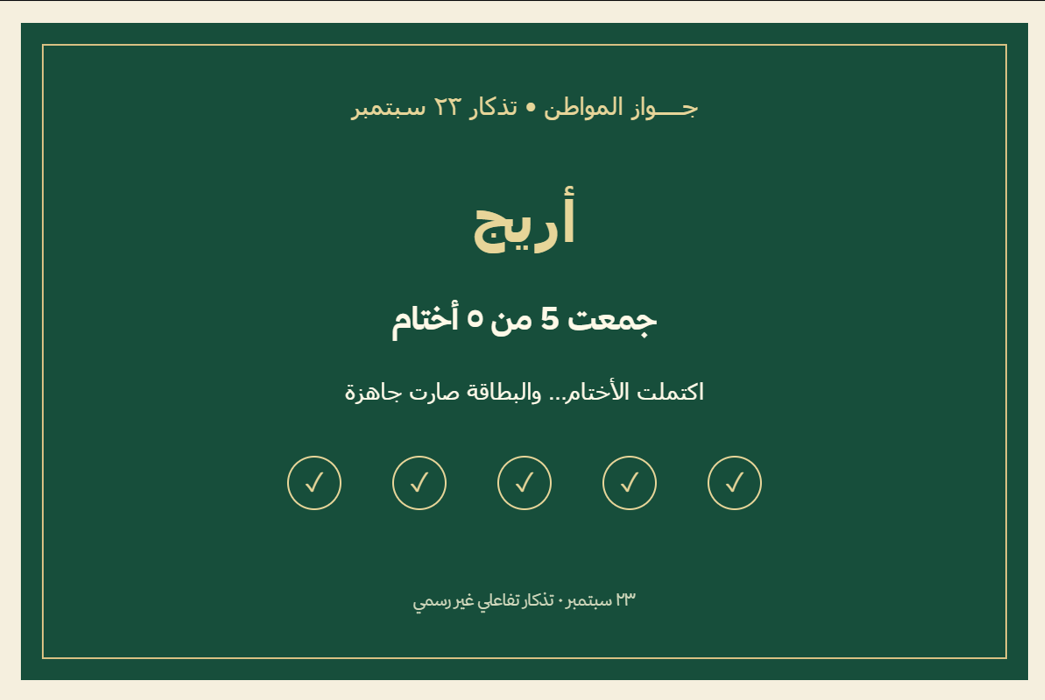
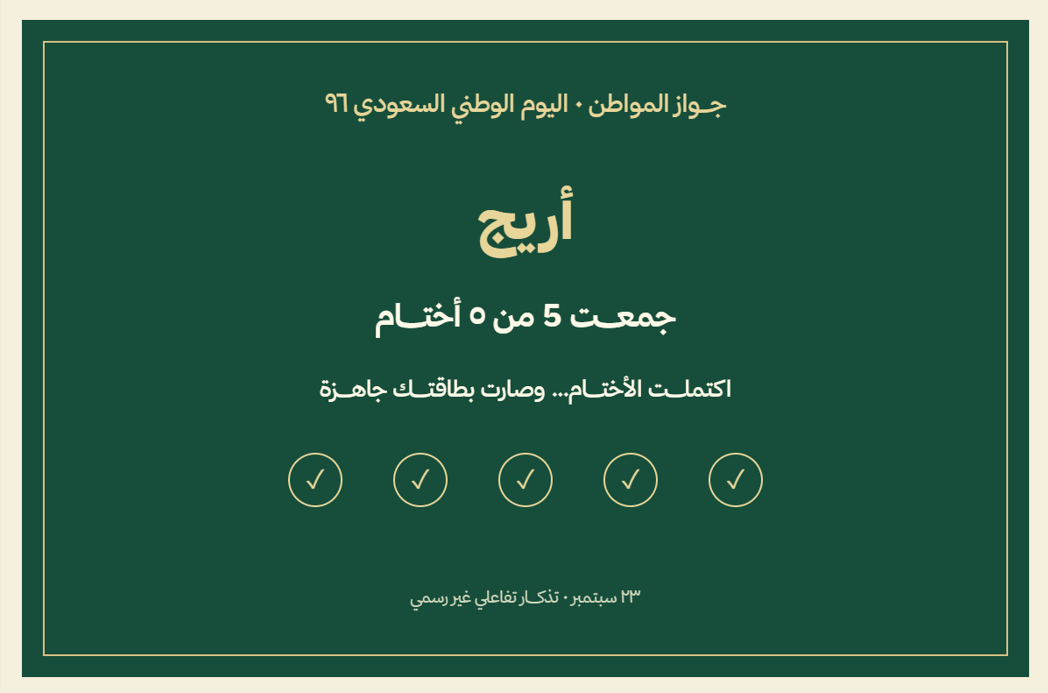
some updates3

diff --git a/static/js/app.js b/static/js/app.js
@@ -1,12 +1,15 @@
 // No external libraries. Cards are drawn locally and downloaded as PNG.
+
 const downloadButton = document.querySelector('#download-card');
 
 async function loadCardFont() {
   if (!document.fonts) return;
 
   await Promise.all([
-    document.fonts.load('400 28px "Thmanyah Sans"'),
-    document.fonts.load('700 64px "Thmanyah Sans"'),
+    document.fonts.load('400 24px "Thmanyah Sans"'),
+    document.fonts.load('500 28px "Thmanyah Sans"'),
+    document.fonts.load('700 36px "Thmanyah Sans"'),
+    document.fonts.load('900 64px "Thmanyah Sans"'),
   ]);
 }
 
@@ -16,106 +19,142 @@ async function cardBlob() {
   const c = document.createElement('canvas');
   c.width = 1200;
   c.height = 800;
+
   const x = c.getContext('2d');
   const cardFont = '"Thmanyah Sans", Tahoma, Arial, sans-serif';
+  const count = Number(downloadButton.dataset.count);
 
+  // Background
   x.fillStyle = '#f5efde';
   x.fillRect(0, 0, 1200, 800);
+
+  // Main card
   x.fillStyle = '#174e3b';
   x.fillRect(25, 25, 1150, 750);
+
+  // Border
   x.strokeStyle = '#d8c184';
   x.lineWidth = 2;
   x.strokeRect(50, 50, 1100, 700);
 
+  // Canvas text settings
   x.textAlign = 'center';
   x.direction = 'rtl';
+
+  // Header
   x.fillStyle = '#e7d599';
   x.font = `500 28px ${cardFont}`;
-  x.fillText('جــــواز المواطن • تذكار ٢٣ سبتمبر', 600, 130);
+  x.fillText('جــــواز المواطن • اليوم الوطني السعودي ٩٦', 600, 130);
 
+  // Name
   x.font = `900 64px ${cardFont}`;
   x.fillText(downloadButton.dataset.name, 600, 275, 1000);
 
+  // Progress
   x.fillStyle = '#fff9e8';
   x.font = `700 36px ${cardFont}`;
-  x.fillText(`جمعت ${downloadButton.dataset.count} من ٥ أختام`, 600, 375);
+  x.fillText(`جمعــــت ${count} من ٥ أختــــام`, 600, 375);
 
+  // Status text
   x.font = `500 26px ${cardFont}`;
   x.fillText(
-    Number(downloadButton.dataset.count) === 5
-      ? 'اكتملت الأختام… والبطاقة صارت جاهزة'
-      : 'باقي لك محطــــات، والجــــواز ينتظرك',
+    count === 5
+      ? 'اكتملــــت الأختــــام… وصارت بطاقتــــك جاهــــزة'
+      : 'باقي لك محطــــات… والجــــواز بانتظارك',
     600,
     455
   );
 
+  // Stamps row
   for (let i = 0; i < 5; i++) {
     x.beginPath();
     x.arc(360 + i * 120, 550, 30, 0, Math.PI * 2);
     x.strokeStyle = '#e7d599';
+    x.lineWidth = 2;
     x.stroke();
-    x.fillStyle = i < Number(downloadButton.dataset.count) ? '#e7d599' : '#668472';
+
+    x.fillStyle = i < count ? '#e7d599' : '#668472';
     x.font = `500 30px ${cardFont}`;
     x.fillText(
-      i < Number(downloadButton.dataset.count) ? '✓' : '•',
+      i < count ? '✓' : '•',
       360 + i * 120,
       560
     );
   }
 
+  // Footer
   x.fillStyle = '#d2d9bd';
   x.font = `400 19px ${cardFont}`;
-  x.fillText('٢٣ سبتمبر • تذكار تفاعلي غير رسمي', 600, 690);
+  x.fillText('٢٣ سبتمبر • تذكــــار تفاعلي غير رسمي', 600, 690);
 
   return new Promise(resolve => c.toBlob(resolve, 'image/png'));
 }
 
+// Download
 if (downloadButton) {
   downloadButton.addEventListener('click', async () => {
     const blob = await cardBlob();
     if (!blob) return;
+
     const url = URL.createObjectURL(blob);
     const a = document.createElement('a');
     a.href = url;
-    a.download = 'citizen-passport.png';
+    a.download = 'citizen-passport-96.png';
     a.click();
+
     setTimeout(() => URL.revokeObjectURL(url), 10000);
   });
 }
 
+// Share
 const share = document.querySelector('#share-card');
 
 if (share) {
   share.addEventListener('click', async () => {
     const status = document.querySelector('#share-status');
-    const text = `جمعت ${downloadButton.dataset.count} من ٥ أختام في جواز المواطن 🇸🇦`;
+    const count = Number(downloadButton.dataset.count);
+    const text =
+      `جمعــــت ${count} من ٥ أختــــام في جــــواز المواطن 🇸🇦 ` +
+      `ضمن تجربة اليوم الوطني السعودي ٩٦`;
 
     try {
       const blob = await cardBlob();
-      const file = new File([blob], 'citizen-passport.png', { type: 'image/png' });
+      const file = new File([blob], 'citizen-passport-96.png', {
+        type: 'image/png',
+      });
 
       if (navigator.canShare && navigator.canShare({ files: [file] })) {
-        await navigator.share({ title: 'جواز المواطن', text, files: [file] });
+        await navigator.share({
+          title: 'جــــواز المواطن',
+          text,
+          files: [file],
+        });
       } else if (navigator.share) {
-        await navigator.share({ title: 'جواز المواطن', text });
+        await navigator.share({
+          title: 'جــــواز المواطن',
+          text,
+        });
       } else if (navigator.clipboard && window.isSecureContext) {
         await navigator.clipboard.writeText(text);
-        status.textContent = 'نُسخ نص إنجازك! حمّل البطاقة وأرفقها معه.';
+        status.textContent = 'تم نسخ نص الإنجاز. حمّل البطاقة وأرفقها مع المشاركة.';
       } else {
         status.textContent = text + ' — حمّل البطاقة وشاركها من جهازك.';
       }
     } catch (error) {
       if (error.name !== 'AbortError') {
-        status.textContent = 'يمكنك تحميل البطاقة ومشاركتها من جهازك.';
+        status.textContent = 'يمكنك تحميل البطاقة ومشاركتها مباشرة من جهازك.';
       }
     }
   });
 }
 
+// Reset
 const reset = document.querySelector('#reset-form');
 
 if (reset) {
   reset.addEventListener('submit', e => {
-    if (!confirm('متأكد؟ سيتم حذف جوازك وجميع أختامك.')) e.preventDefault();
+    if (!confirm('متأكد؟ سيتم حذف جــــوازك وجميع أختامك نهائيًا.')) {
+      e.preventDefault();
+    }
   });
 }
